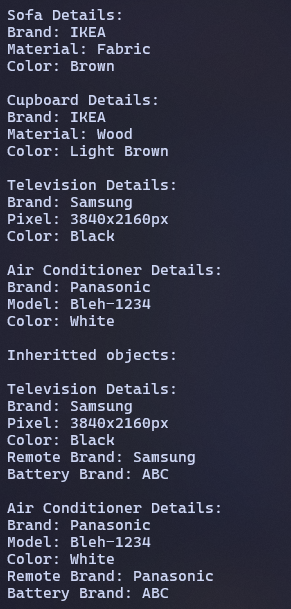
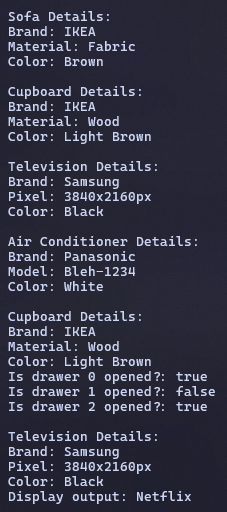
Another Jobsheet Commit -_-

Changed region(s): [[0.0, 0.0, 0.8326, 1.0], [0.7709, 0.7188, 0.9559, 0.8125]]

diff --git a/1. Introduction to OOP/src/Assignment/Demo.java b/1. Introduction to OOP/src/Assignment/Demo.java
@@ -26,20 +26,22 @@ public class Demo {
         ac.printDetails();
 
         //Inheritted objects
-        System.out.println("\nInheritted objects:");
-        LivingRoomTV tv2 = new LivingRoomTV();
-        LivingRoomAC ac2 = new LivingRoomAC();
-        tv2.setBrand("Samsung");
-        tv2.setPixel("3840x2160px");
-        tv2.setColor("Black");
-        tv2.setRemoteBrand("Samsung");
-        tv2.setBatteryBrand("ABC");
-        tv2.printDetails();
-        ac2.setBrand("Panasonic");
-        ac2.setModel("Bleh-1234");
-        ac2.setColor("White");
-        ac2.setRemoteBrand("Panasonic");
-        ac2.setBatteryBrand("ABC");
-        ac2.printDetails();
+        //Drawer
+        Drawer drawer = new Drawer();
+        drawer.setBrand("IKEA");
+        drawer.setMaterial("Wood");
+        drawer.setColor("Light Brown");
+        drawer.openDrawer(0, true);
+        drawer.openDrawer(1, false);
+        drawer.openDrawer(2, true);
+        drawer.printStatus();
+
+        //AndroidTV
+        AndroidTV androidTV = new AndroidTV();
+        androidTV.setBrand("Samsung");
+        androidTV.setPixel("3840x2160px");
+        androidTV.setColor("Black");
+        androidTV.setDisplayOutput("Netflix");
+        androidTV.printDetails();
     }
 }

diff --git a/1. Introduction to OOP/src/Assignment/Drawer.java b/1. Introduction to OOP/src/Assignment/Drawer.java
@@ -1,0 +1,16 @@
+package Assignment;
+
+public class Drawer extends Cupboard {
+    boolean[] drawer = new boolean[3];
+
+    public void openDrawer (int whichDrawer, boolean openStatus) {
+        drawer[whichDrawer] = openStatus;
+    }
+
+    public void printStatus() {
+        super.printDetails();
+        for(int i = 0; i < drawer.length; i++) {
+            System.out.println("Is drawer " + i + " opened?: " + drawer[i]);
+        }
+    }
+}

diff --git a/1. Introduction to OOP/src/Assignment/AndroidTV.java b/1. Introduction to OOP/src/Assignment/AndroidTV.java
@@ -1,0 +1,14 @@
+package Assignment;
+
+public class AndroidTV extends Television {
+    String displayOutput;
+
+    public void setDisplayOutput(String newValue) {
+        displayOutput = newValue;
+    }
+
+    public void printDetails() {
+        super.printDetails();
+        System.out.println("Display output: " + displayOutput);
+    }
+}

diff --git a/1. Introduction to OOP/REPORT.md b/1. Introduction to OOP/REPORT.md
@@ -1,0 +1,78 @@
+|  | Object Oriented Programming |
+|--|--|
+| NIM |  244107020215|
+| Nama |  Herconary Angga |
+| Kelas | TI - 2I |
+| Repository | [link] (https://github.com/ukakooo/3rdSemester-ObjectOrientedProgramming) |
+
+# Experiment Activity
+
+## Bicycle inheritance
+The source code can be found in the `src` folder, and below is the screenshot of the output result
+
+![Screenshot](src/1.png)
+![Screenshot](src/2.png)
+
+**Questions:**
+1. Explain the difference between object and class!
+
+    Class is the blueprint or a template of the object. While the object is the real thing that will be used in the main method.
+
+2. State your reason why color and engine type can be classified as attribute for car object!
+
+    Because both are parts of the car object. 
+
+3. State one of OOP better point than procedural programming!
+
+    OOP is more flexible and modular, it can be described that each part of program won’t be disturbed if a feature is updated.
+
+4. Is it allowed to define two attributes in one line code such “public String nama,alamat;”?
+
+    Yes, it is. In fact, I implemented that method in the codes for this folder.
+
+5. In SepedaGunung class, state your reason why merk, kecepatan, and gear attributes are not written again in this class!
+
+    Because they already existed in the `Sepeda` class. And `SepedaGunung` is just an extension for the `Sepeda` class so there's no need to type them out again.
+
+# Assignments
+
+## Tasks
+
+1. Follow these instructions to make your practical assignment is performed systematically:  
+    a. Take 4 photographs of objects around you, 2 objects must be implementation of inheritance
+    concept, example: refrigerator, chair, living room table, desk! As we know that living room table and desk are inherited by table class.
+    b. Observe those objects to define the attribute and method!  
+    c. Convert those objects into four classes in Java programming!  
+    d. Add one additional class as a class which inherits its attribute and method to living room table class and desk class!  
+    e. Add two attributes for each class!  
+    f. Add three methods for each class including a method for showing the information!  
+    g. Add one class named Demo for main class!  
+    h. Instance an object for each class!  
+    i. Apply each method for each object in main class!  
+    j. The example which is mentioned in point 1.a should not be included in your task!  
+
+## Answers
+
+**Photographs**: 
+![Screenshot](src/Assignment/photographs/1.jpg)
+![Screenshot](src/Assignment/photographs/2.jpg)
+![Screenshot](src/Assignment/photographs/3.jpg)
+![Screenshot](src/Assignment/photographs/4.jpg)
+
+**Identifying objects, attributes and its inheritance:**
+- Cupboard  
+    Attributes: Brand, Material, Color  
+    Inherits to: Drawer
+- Television  
+    Attributes: Brand, Pixels, Color  
+    Inherits to: Android TV
+- Air Conditioner  
+    Attributes: Brand, Model, Color
+- Sofa  
+    Attributes: Brand, Material, Color
+
+**Program:**
+
+The source code of the program will be in the `src/Assignment` folder, and below is the screenshot of the output.
+
+![Screenshot](src/Assignment/1.png)
